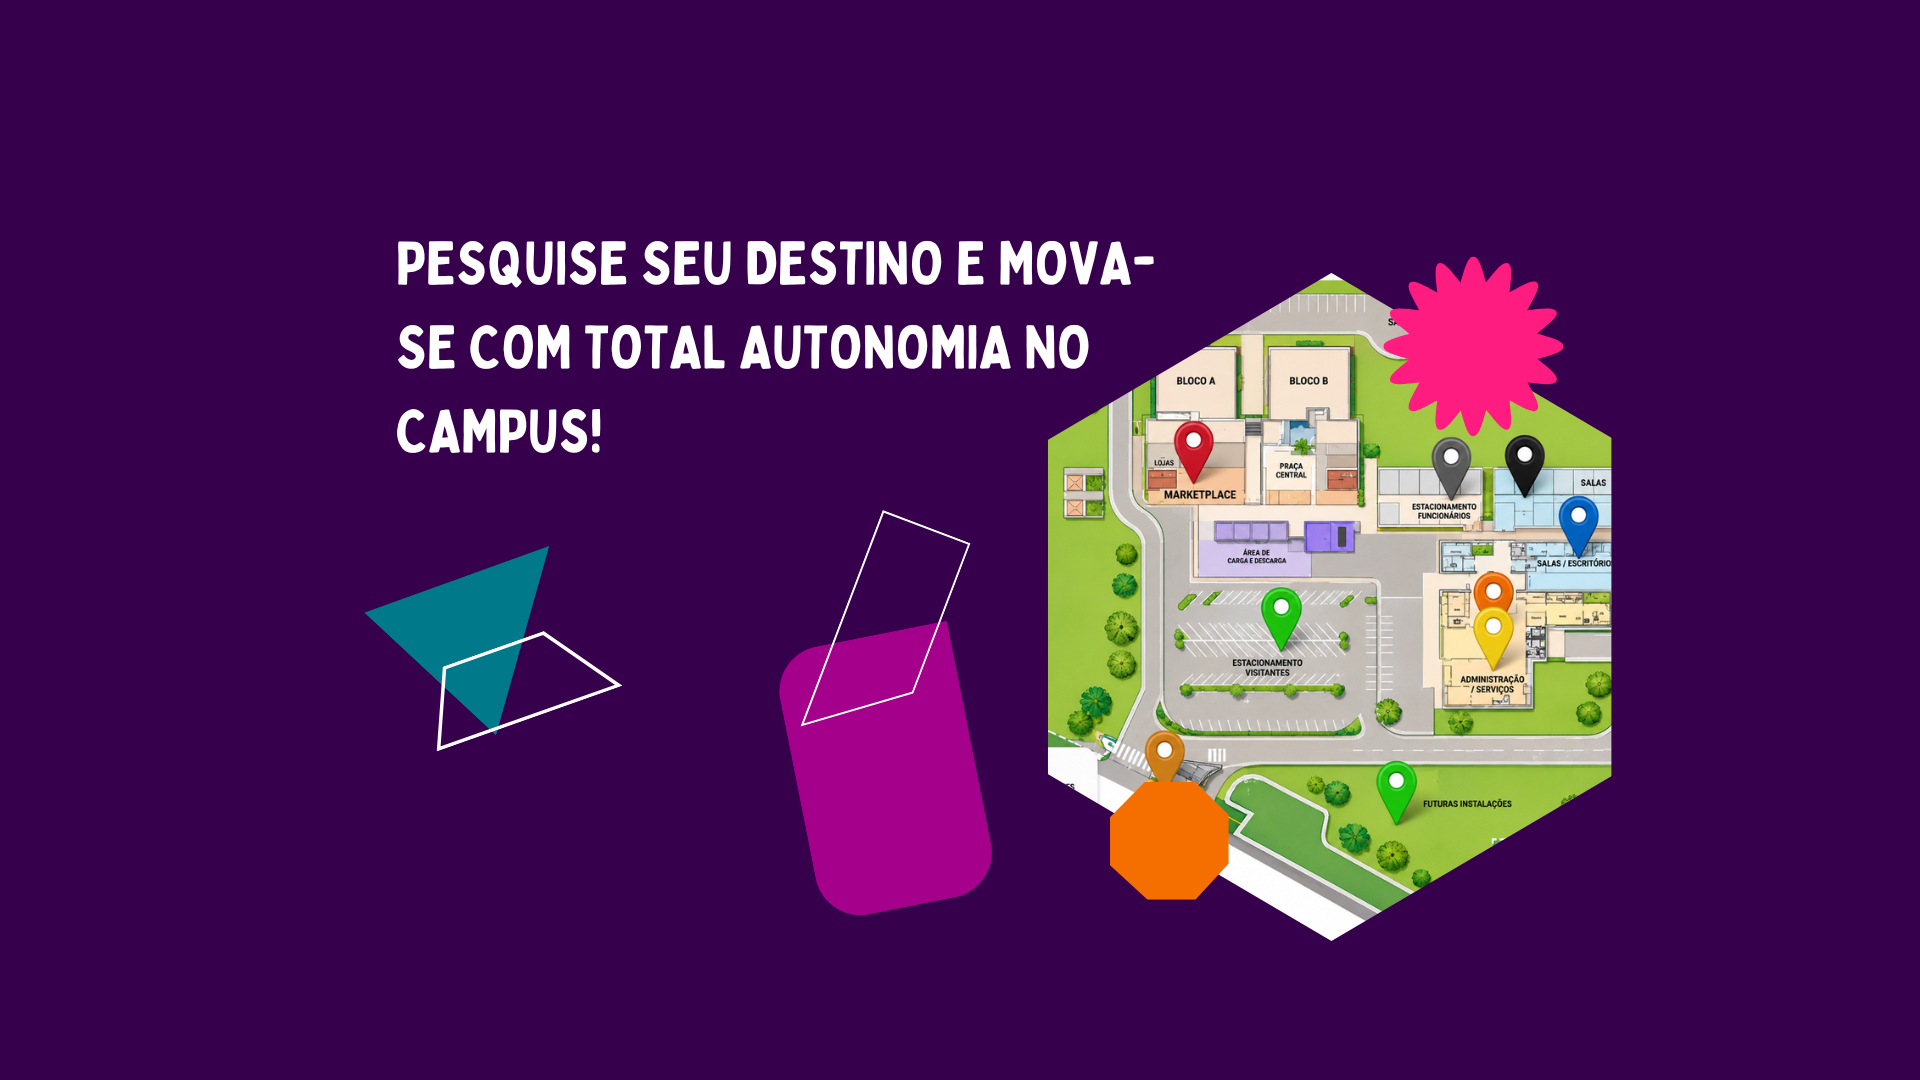
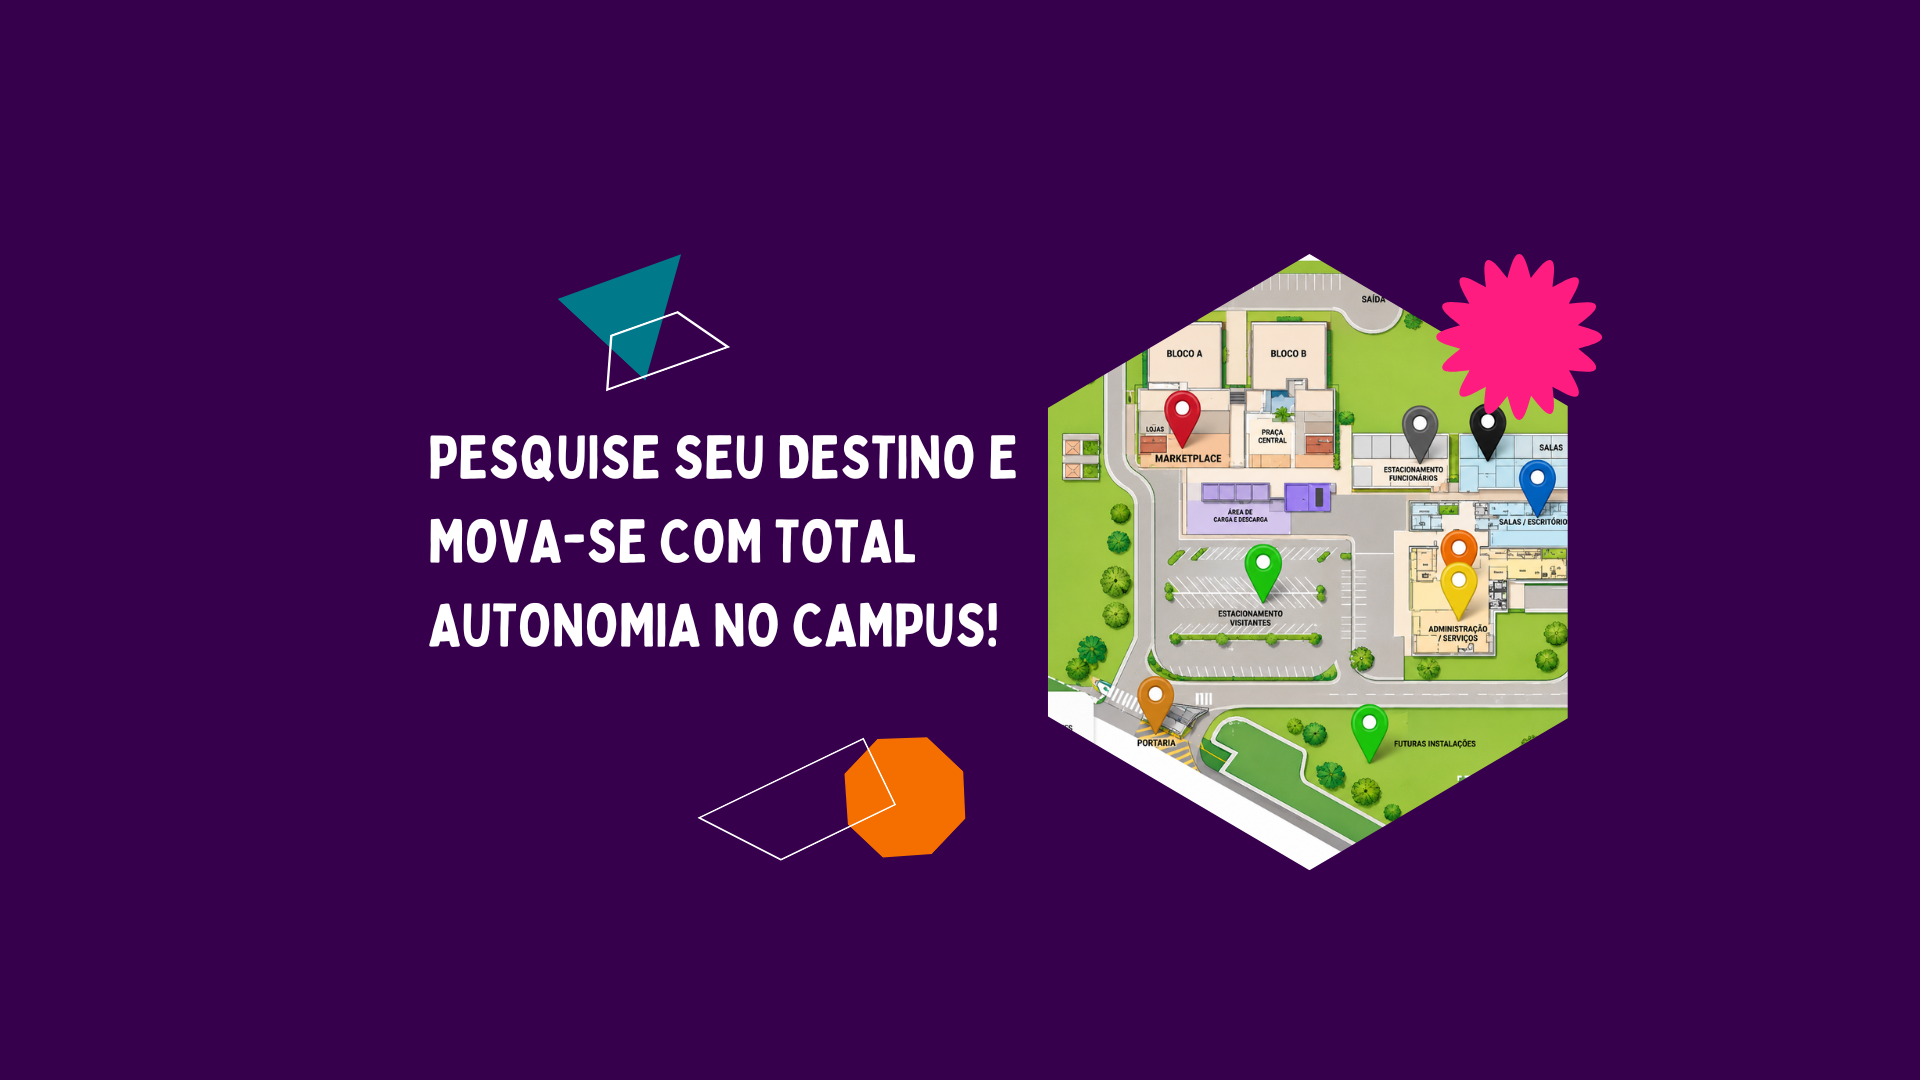
Removendo userway

Changed region(s): [[0.1875, 0.2139, 0.8438, 0.8861]]

diff --git a/assets/css/style.css b/assets/css/style.css
@@ -1020,35 +1020,17 @@ div[id^=userway] {
 #userwayAccessibilityIcon,
 .uai,
 userway-accessibility-widget,
-[data-widget-placeholder],
 div[id^=userway] {
-  position: fixed !important;
-  top: 60% !important;
-  bottom: auto !important;
-  right: 20px !important;
-  left: auto !important;
   z-index: 2147483647 !important;
-}
-#userwayAccessibilityIcon, #userwayAccessibilityIcon *,
-.uai,
-.uai *,
-userway-accessibility-widget,
-userway-accessibility-widget *,
-[data-widget-placeholder],
-[data-widget-placeholder] *,
-div[id^=userway],
-div[id^=userway] * {
-  top: 60% !important;
-  bottom: auto !important;
-}
-#userwayAccessibilityIcon,
-.uai,
-userway-accessibility-widget,
-[data-widget-placeholder],
-div[id^=userway] {
   filter: hue-rotate(310deg) saturate(1.5) brightness(1.1) !important;
 }
 
+/* 3. RESPONSIVO */
+@media (max-width: 768px) {
+  #userwayAccessibilityIcon, div[id^=userway], userway-accessibility-widget {
+    transform: scale(0.8) !important;
+  }
+}
 .container-mapa {
   display: flex;
   width: 100%;

diff --git a/assets/scss/_accessibility.scss b/assets/scss/_accessibility.scss
@@ -36,20 +36,20 @@ div[id^="userway"] {
 }
 
 /* 2. USERWAY */
-// Adicionamos os seletores alternativos que o widget assume no carregamento inicial
 #userwayAccessibilityIcon, 
 .uai,
 userway-accessibility-widget,
-[data-widget-placeholder],
 div[id^="userway"] {
-    @include force-position(60%);
+    // Força o elemento a ficar por cima do carrossel/mapa, sem mexer no top/left
+    z-index: 2147483647 !important;
     
-    // Força o posicionamento na tag root injetada pelo script do widget
-    &, & * {
-        top: 60% !important;
-        bottom: auto !important;
-    }
-    
-    // Filtros de cor aplicados
+    // Seu filtro de cores personalizado
     filter: hue-rotate(310deg) saturate(1.5) brightness(1.1) !important;
+}
+
+/* 3. RESPONSIVO */
+@media (max-width: 768px) {
+    #userwayAccessibilityIcon, div[id^="userway"], userway-accessibility-widget {
+        transform: scale(0.8) !important;
+    }
 }

diff --git a/index.html b/index.html
@@ -222,12 +222,7 @@
     <script>
         new window.VLibras.Widget('https://vlibras.gov.br/app');
     </script>
-    <script 
-    src="https://cdn.userway.org/widget.js" 
-    data-account="YOUR_ACCOUNT_ID"
-    data-position="5" 
-    data-size="small">
-</script>
+    
     <script src="assets/js/script.js"></script>
 </body>
 

diff --git a/cadastro.html b/cadastro.html
@@ -54,12 +54,6 @@
         new window.VLibras.Widget('https://vlibras.gov.br/app');
     </script>
 
-<script 
-    src="https://cdn.userway.org/widget.js" 
-    data-account="YOUR_ACCOUNT_ID"
-    data-position="5" 
-    data-size="small">
-</script>
     <script src="assets/js/script.js"></script>
     </body>
 </html>

diff --git a/login.html b/login.html
@@ -45,12 +45,7 @@
         new window.VLibras.Widget('https://vlibras.gov.br/app');
     </script>
 
-<script 
-    src="https://cdn.userway.org/widget.js" 
-    data-account="YOUR_ACCOUNT_ID"
-    data-position="5" 
-    data-size="small">
-</script>
+
     <script src="assets/js/script.js"></script>
 </body>
 </html>

diff --git a/mapa.html b/mapa.html
@@ -69,12 +69,6 @@
         new window.VLibras.Widget('https://vlibras.gov.br/app');
     </script>
 
-<script 
-    src="https://cdn.userway.org/widget.js" 
-    data-account="YOUR_ACCOUNT_ID"
-    data-position="5" 
-    data-size="small">
-</script>
     <script src="assets/js/script.js"></script>
 </body>
 </html>
